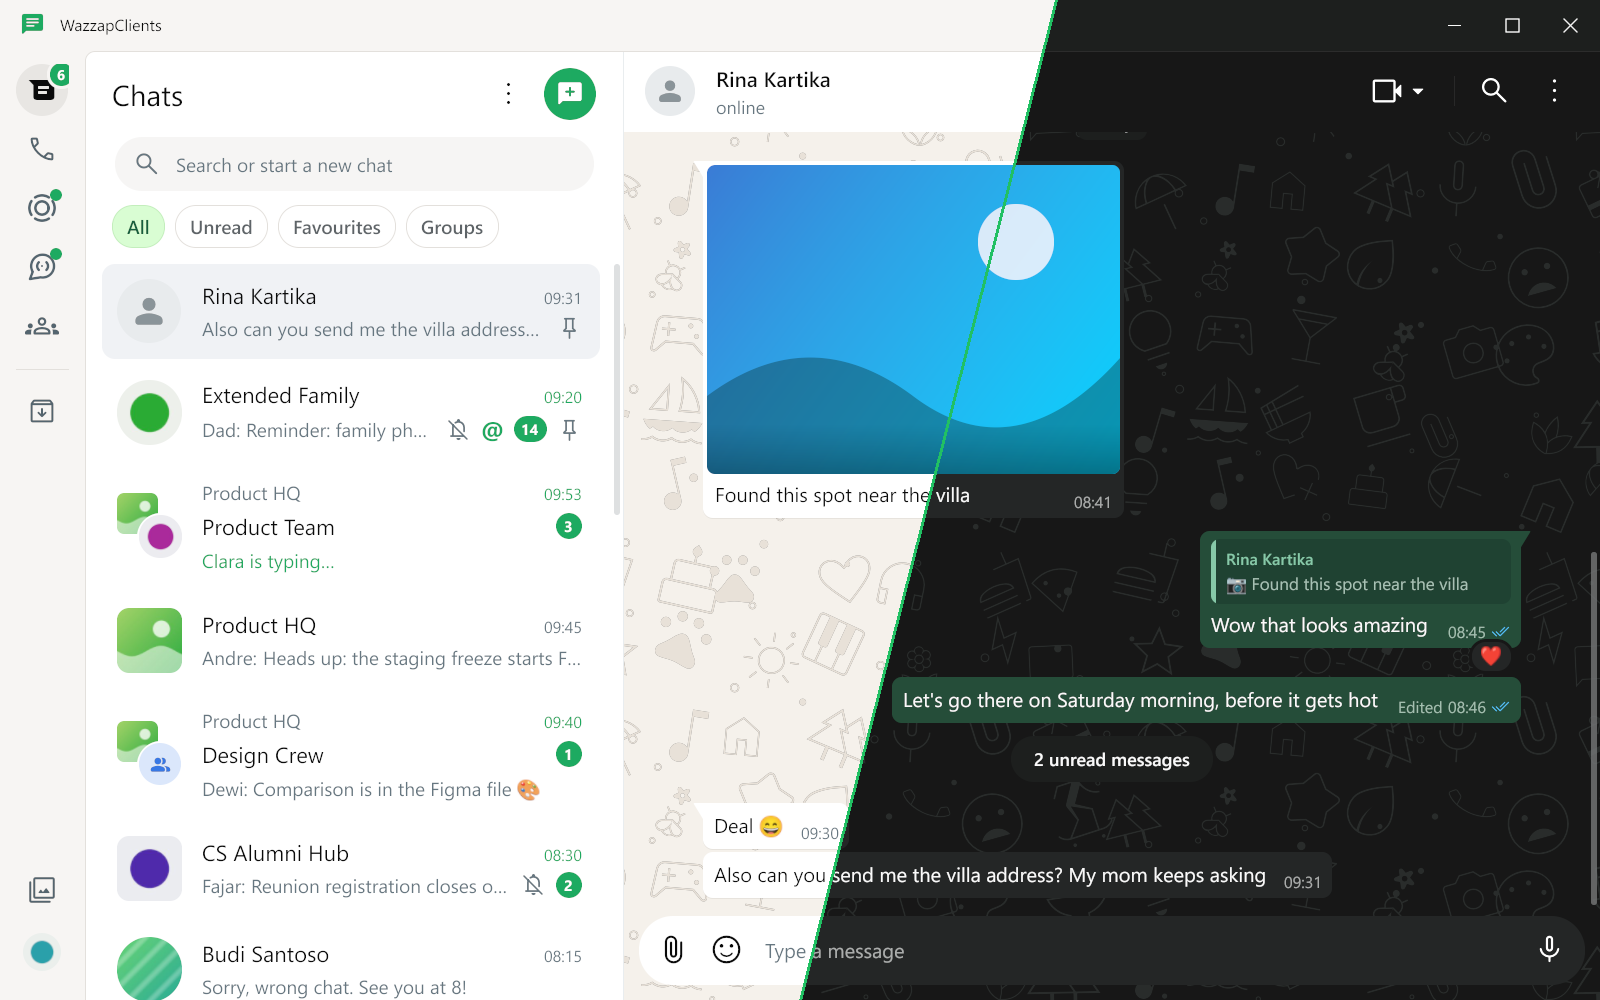
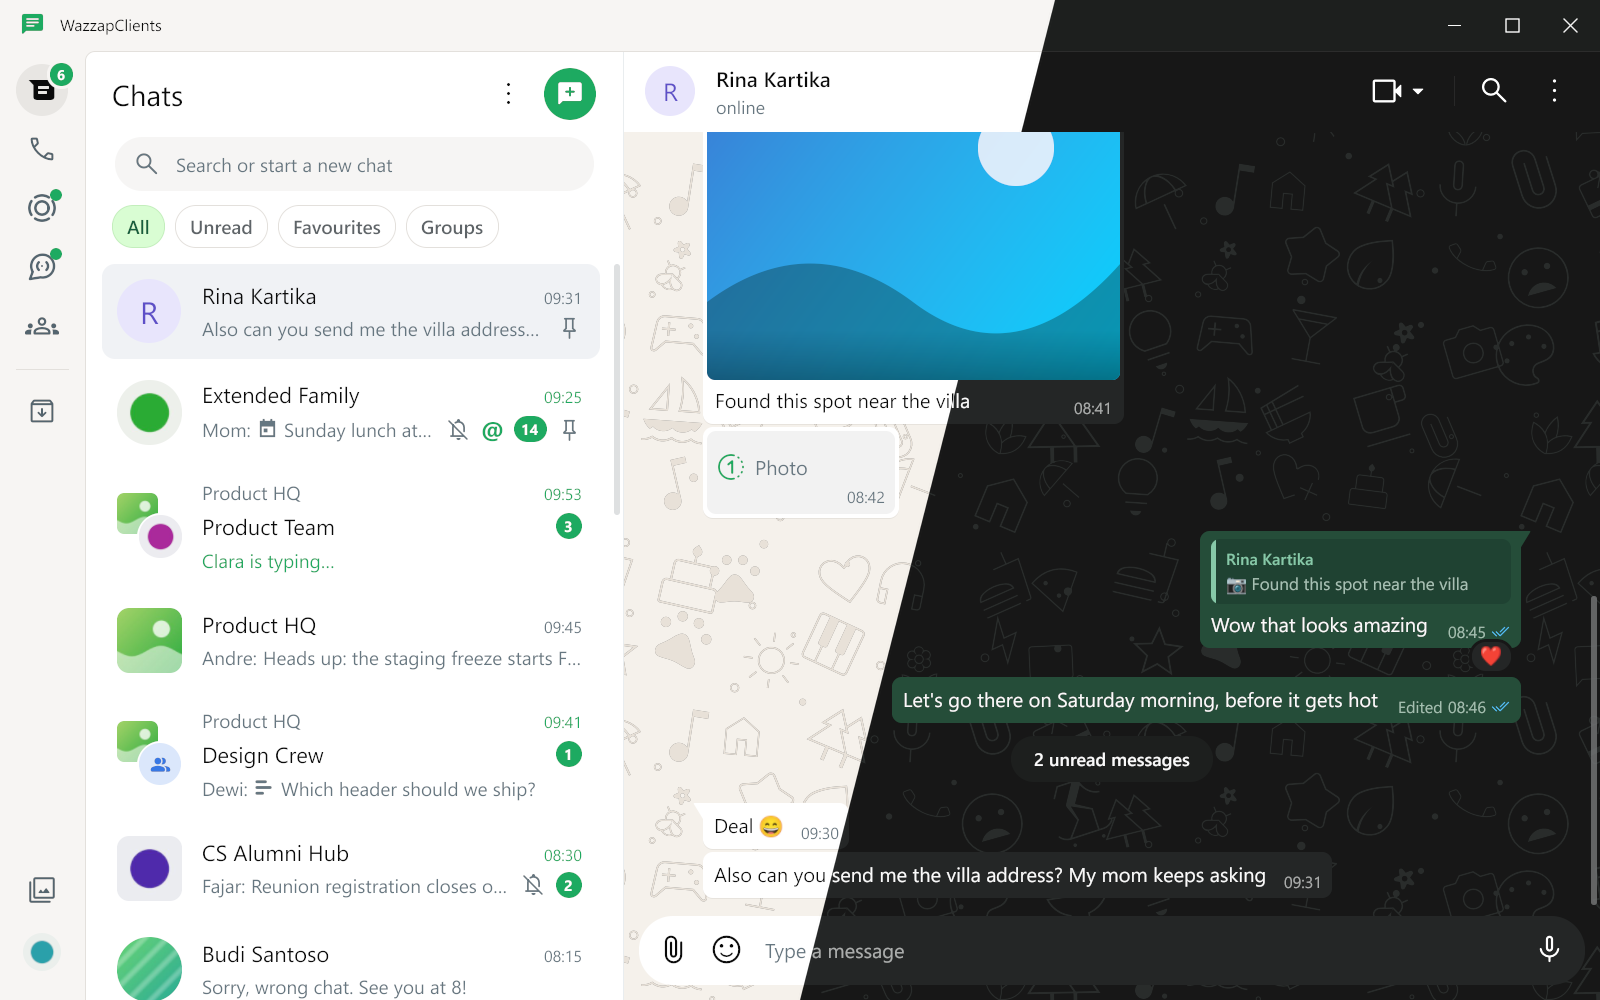
Show the newest features in the README
Privacy mode, /ghost, polls and Message info get screenshots, and the
Ethically gray features page, link previews, view once messages, font
size and the rest are listed. The hero shot is rendered again from the
current demo, its light and dark halves meeting without a line.

diff --git a/README.md b/README.md
@@ -62,6 +62,14 @@ whatsmeow. You get the same app, pixel for pixel where it matters, in one small 
     <td><b>Emoji and stickers</b>, including animated ones, with search and recents.</td>
     <td><b>The Media panel:</b> photos, videos, docs and links from every chat, or from just one.</td>
   </tr>
+  <tr>
+    <td><img src="docs/screenshots/poll.png" alt="A poll and its votes"></td>
+    <td><img src="docs/screenshots/msginfo.png" alt="Message info"></td>
+  </tr>
+  <tr>
+    <td><b>Polls</b> you vote in with a click, and who voted for what. Locations, contacts and events show as cards.</td>
+    <td><b>Message info:</b> who each of your messages was delivered to and read by, and when.</td>
+  </tr>
 </table>
 
 ### Status, channels and communities
@@ -114,7 +122,22 @@ WhatsApp already lets every linked device do, and they run from your own account
     <td><b><code>/schedule</code></b> sends a message later, even with the window closed. <b><code>/afk</code></b> replies for you while you're away.</td>
     <td><b>Edit history</b> shows what an edited message said before each edit.</td>
   </tr>
+  <tr>
+    <td><img src="docs/screenshots/privacy.png" alt="Privacy mode"></td>
+    <td><img src="docs/screenshots/ghost.png" alt="Ghost mode"></td>
+  </tr>
+  <tr>
+    <td><b>Privacy mode</b> for when others can see your screen: names and messages turn into bars and pictures blur until you point at them. Ctrl+Shift+P or the eye in the title bar. <b>Block screen recording</b> keeps the window out of captures.</td>
+    <td><b><code>/ghost</code></b> reads chats and statuses invisibly: no read receipts, shown offline, and nothing sent from you until you turn it off.</td>
+  </tr>
 </table>
+
+A page of its own, *Ethically gray features*, holds the ones that show more than the sender
+meant you to see. Each has its own switch:
+
+- 🗑 **Keep deleted messages** keeps messages and statuses deleted for everyone, marked Deleted.
+- 👁 **Replay view once** opens view once messages as often as you like, screenshots allowed.
+- 👻 **`/ghost`** and ✏ **Edit history**, above.
 
 <details>
 <summary><b>All the slash commands</b></summary>
@@ -134,6 +157,7 @@ WhatsApp already lets every linked device do, and they run from your own account
 | `/schedule <when> <message>` | Sends later: `21:00`, `2h`, `tomorrow 08:00`, `fri 18:00` |
 | `/scheduled` | Lists the chat's scheduled messages, to send now or cancel |
 | `/afk <reason>` | Auto-replies while you're away, until you send something |
+| `/ghost` | Goes invisible: no read receipts, shown offline, no sending (an ethically gray feature) |
 
 Group commands work in groups where you're an admin. You'll also find **`@admin`**, which
 mentions every admin of a group at once, and **Raw quality**, which sends JPEG and PNG
@@ -149,7 +173,11 @@ photos exactly as they are.
 - 📝 Drafts that stay with each chat, @mentions, and a formatting toolbar (bold, italic, strikethrough, code)
 - 🎙 Voice messages and videos played by the system's own decoders (no bundled codecs)
 - 📌 Pinned, archived and muted chats, Favourites and custom lists, disappearing messages, chat themes
-- 🔗 Group invite links, polls, contacts, albums and documents
+- 📊 Polls with Hide voter names and an end time when you create one
+- 🔗 Link previews, sent and received, with WhatsApp's big picture; group invite links, albums and documents
+- 1⃣ View once messages, opened once, with screenshots blocked while one is shown
+- 🔍 Font size from 80% to 200% (*Settings > General*, or Ctrl with +, - and 0)
+- 🅰 Initials on a color for people without a profile picture, and clickable @mentions
 - ⬆ Built-in updates from signed GitHub releases (*Settings > Help > Check for updates*)
 
 ## Download
